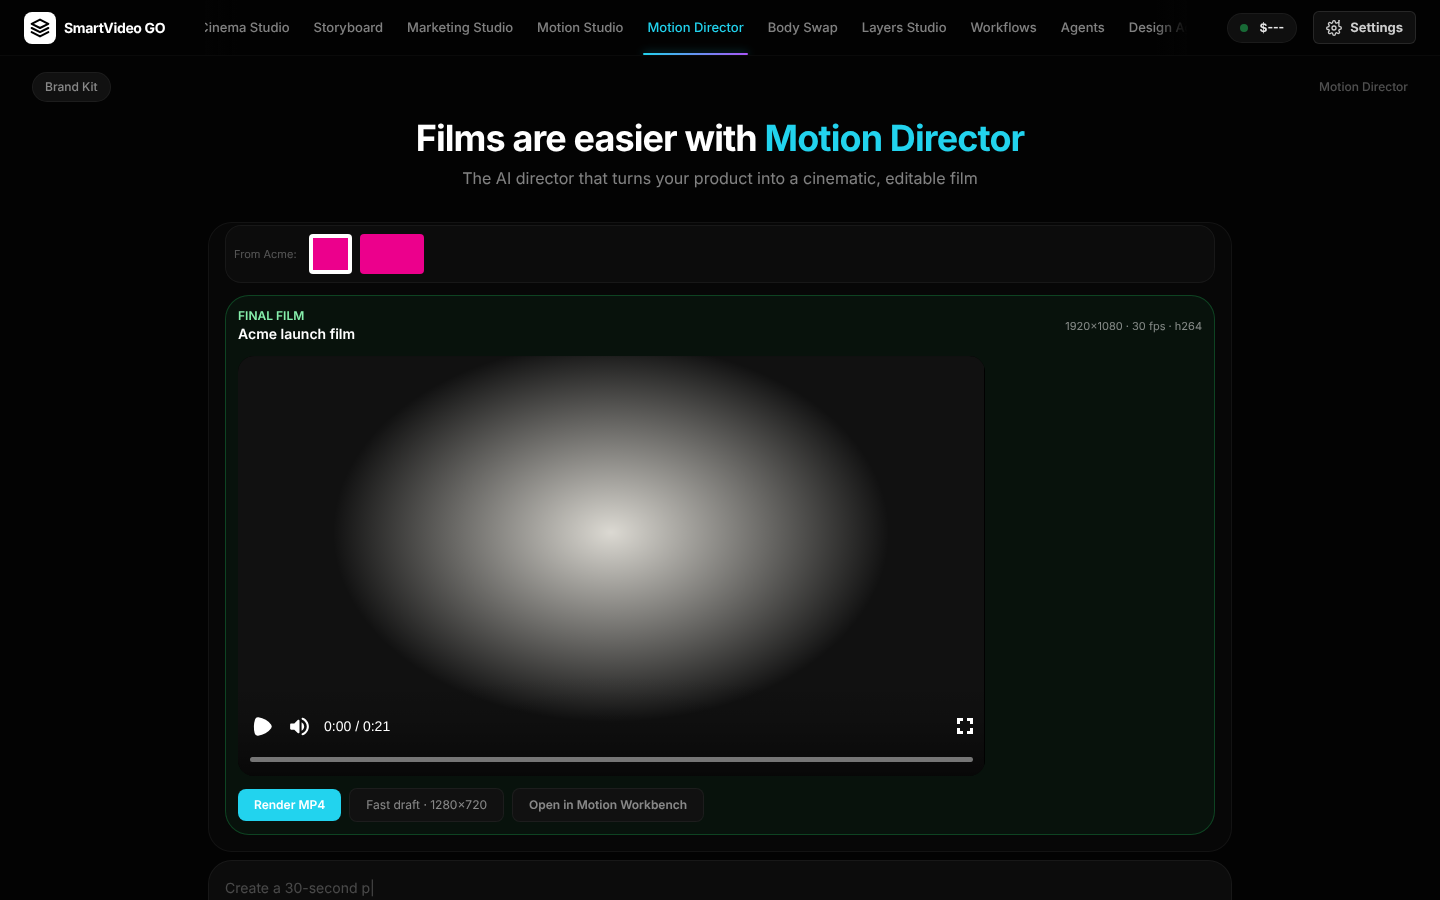
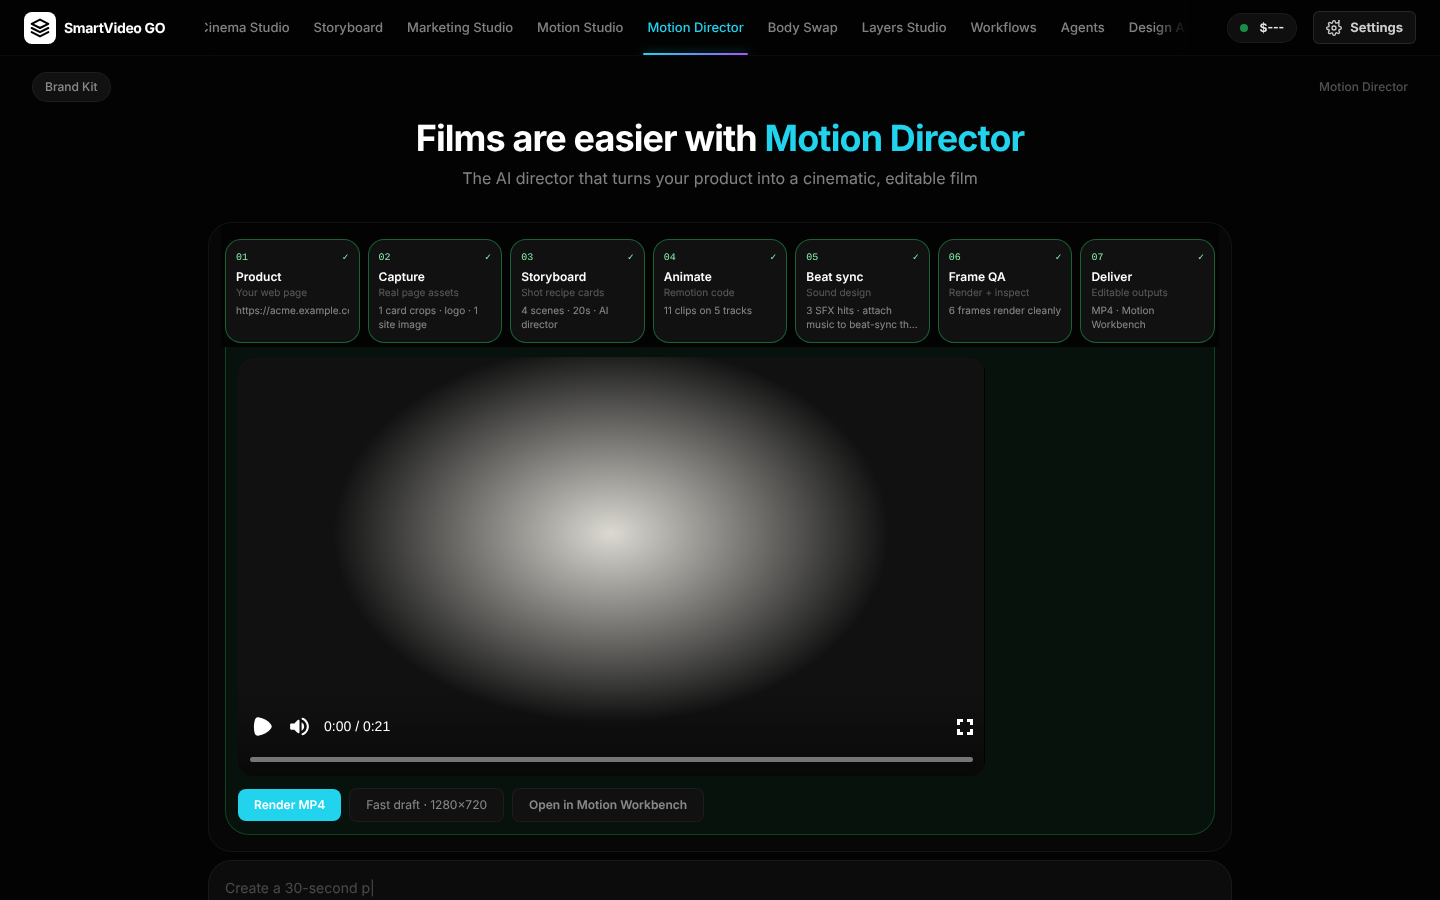
feat(motion-director): show the seven-step film workflow live in the chat
Product → Capture → Storyboard → Animate → Beat sync → Frame QA → Deliver,
as seven cards pinned at the top of the film conversation. Each shows its
state (waiting / working / done / skipped / problem) and what happened:
the URL, what the capture pulled (crops, logo, site images), the storyboard
(scenes, length, AI director or Ink Press), the Remotion build (clips and
tracks), the sound design (SFX hits, beat-synced music when attached), the
frame QA result, and the outputs (MP4, Motion Workbench).

The step state lives in useFilmDirector next to the conversation (reset
with it), defined once in lib/filmSteps.ts.

Claude-Session: https://claude.ai/code/session_019YUbZgdfbcj3m1xkvHF3L1

diff --git a/src/apps/motion-director/components/useFilmDirector.ts b/src/apps/motion-director/components/useFilmDirector.ts
@@ -15,6 +15,7 @@ import {
   type FilmRequest,
   type FilmTemplateChoice,
 } from '../lib/filmChat';
+import { initialSteps, markStep, type FilmStep, type FilmStepId, type FilmStepState } from '../lib/filmSteps';
 import {
   buildFilmProject,
   checkFilmFrames,
@@ -92,6 +93,9 @@ export function useFilmDirector(opts: {
   const [activity, setActivity] = useState<Array<{ label: string; status: ActivityStatus }>>([]);
   const [storyboard, setStoryboard] = useState<StoryboardResult | null>(null);
   const [film, setFilm] = useState<BuiltFilm | null>(null);
+  /** The seven workflow steps (Product → Deliver) with their live state. */
+  const [steps, setSteps] = useState<FilmStep[]>(initialSteps);
+  const mark = useCallback((id: FilmStepId, state: FilmStepState, detail?: string) => setSteps((prev) => markStep(prev, id, state, detail)), []);
   const pending = useRef<{ req: FilmRequest; template: FilmTemplateChoice } | null>(null);
   const offerReq = useRef<FilmRequest | null>(null);
   const optsRef = useRef(opts);
@@ -119,7 +123,10 @@ export function useFilmDirector(opts: {
       const my = gen.current;
       const live = () => gen.current === my;
       const glog: typeof log = (label, status) => {
-        if (live()) log(label, status);
+        if (!live()) return;
+        log(label, status);
+        if (/^Captured /.test(label)) mark('capture', 'done', label.replace(/^Captured [^·]*· ?/, ''));
+        else if (/^Could not capture/.test(label)) mark('capture', 'error', label);
       };
       const s = optsRef.current.settings();
       // A revision carries its own (revised) list; a new film adds the shots picked in Templates.
@@ -130,6 +137,14 @@ export function useFilmDirector(opts: {
       setStoryboard(null);
       setFilm(null);
       setActivity([]);
+      const images = s.media.filter((m) => m.kind === 'image').length;
+      let next = markStep(initialSteps(), 'product', 'done', req.siteUrl ?? 'From your message');
+      next = reuseCapture && storyboard?.capture
+        ? markStep(next, 'capture', 'done', 'Reusing the captured pages')
+        : req.siteUrl
+          ? markStep(next, 'capture', 'active', `Capturing ${req.siteUrl}`)
+          : markStep(next, 'capture', images ? 'done' : 'skipped', images ? `${images} attached screenshot${images === 1 ? '' : 's'}` : 'No URL — sample pages');
+      setSteps(markStep(next, 'storyboard', 'active'));
       if (!req.siteUrl && !s.media.some((m) => m.kind === 'image')) {
         say('assistant', 'No product URL or screenshots yet, so the product shots will use sample pages. Add your URL to the message (or attach screenshots) any time and I will re-capture.');
       }
@@ -142,6 +157,11 @@ export function useFilmDirector(opts: {
         if (!live()) return;
         setStoryboard(result);
         setStage('plan');
+        mark(
+          'storyboard',
+          'done',
+          `${result.plan.scenes.length} scene${result.plan.scenes.length === 1 ? '' : 's'} · ${secs(result.plan)}s · ${result.source === 'director' ? 'AI director' : 'Ink Press'}`,
+        );
         const lines = result.plan.scenes.map((sc, i) => `${i + 1}. ${sc.kind === 'title' ? 'Title card' : sc.recipeId.split('/')[1]} · ${sc.durationSec}s${sc.headline ? ` — “${sc.headline.replace(/\*/g, '')}”` : ''}`);
         say(
           'assistant',
@@ -150,10 +170,11 @@ export function useFilmDirector(opts: {
       } catch (error) {
         if (!live()) return;
         setStage('idle');
+        mark('storyboard', 'error', error instanceof Error ? error.message : 'failed');
         say('assistant', `I could not storyboard that: ${error instanceof Error ? error.message : 'unknown error'}`);
       }
     },
-    [log, say, storyboard?.capture],
+    [log, mark, say, storyboard?.capture],
   );
 
   /** Handle a chat message. Returns false when it is not a film request (the caller treats it as an edit). */
@@ -244,13 +265,21 @@ export function useFilmDirector(opts: {
     const my = gen.current;
     const live = () => gen.current === my;
     const glog: typeof log = (label, status) => {
-      if (live()) log(label, status);
+      if (!live()) return;
+      log(label, status);
+      if (/^Finding the beat/.test(label)) mark('beat', 'active', label);
+      else if (/^Frame QA/.test(label)) mark('qa', status === 'running' ? 'active' : status === 'error' ? 'error' : 'done', label.replace(/^Frame QA · /, ''));
     };
     const s = optsRef.current.settings();
     setStage('building');
+    mark('animate', 'active', 'Building the Remotion project');
     try {
       const project = await buildFilmProject(storyboard.plan, { aspectRatio: s.aspectRatio, capture: storyboard.capture, media: s.media, logo: s.brandKit?.logo ?? null }, glog);
       const qa = checkFilmStructure(project, { hasProductImages: Boolean(storyboard.capture) || s.media.some((m) => m.kind === 'image') });
+      const cuts = project.tracks.flatMap((t) => t.clips).filter((c) => c.cardId === 'audio-clip' && /sfxlib/.test(String(c.props?.file ?? ''))).length;
+      const music = s.media.find((m) => m.kind === 'audio');
+      mark('animate', 'done', `${project.tracks.reduce((n, t) => n + t.clips.length, 0)} clips on ${project.tracks.length} tracks`);
+      mark('beat', 'done', `${cuts} SFX hits${music ? ` · cuts on the beat of ${music.name}` : ' · attach music to beat-sync the cuts'}`);
       const frames = await checkFilmFrames(project, glog);
       if (!live()) return;
       qa.framesChecked = frames.checked;
@@ -259,6 +288,9 @@ export function useFilmDirector(opts: {
       const built = { project, qa };
       setFilm(built);
       setStage('film');
+      if (!frames.checked && !frames.failed.length) mark('qa', qa.ok ? 'done' : 'error', qa.ok ? 'Structure checked' : `${qa.issues.length} issue(s)`);
+      else if (!qa.ok) mark('qa', 'error', `${qa.issues.length} issue(s)`);
+      mark('deliver', 'done', 'MP4 · Motion Workbench');
       optsRef.current.onBuilt?.(built);
       say(
         'assistant',
@@ -272,10 +304,11 @@ export function useFilmDirector(opts: {
     } catch (error) {
       if (!live()) return;
       setStage('plan');
+      mark('animate', 'error', error instanceof Error ? error.message : 'failed');
       log(error instanceof Error ? error.message : 'Could not build the film', 'error');
       say('assistant', `Building the film failed: ${error instanceof Error ? error.message : 'unknown error'}`);
     }
-  }, [log, say, storyboard]);
+  }, [log, mark, say, storyboard]);
 
   const revise = useCallback(() => {
     say('assistant', 'What should change? Name shots to swap in (e.g. “use crash-zoom-punch instead”), a new length, or new copy.');
@@ -290,9 +323,10 @@ export function useFilmDirector(opts: {
     setFilm(null);
     setActivity([]);
     setMessages([]);
+    setSteps(initialSteps());
   }, []);
 
-  return { messages, stage, activity, storyboard, film, send, chooseTemplate, approve, revise, reset };
+  return { messages, stage, activity, steps, storyboard, film, send, chooseTemplate, approve, revise, reset };
 }
 
 export type FilmDirector = ReturnType<typeof useFilmDirector>;

diff --git a/src/apps/motion-director/components/FilmDirectorChat.tsx b/src/apps/motion-director/components/FilmDirectorChat.tsx
@@ -11,6 +11,7 @@ import { createDownloadUrl, exportMp4, formatEta, guardTabWhileRendering } from 
 import { isProductTextureShot } from '../lib/productShots';
 import { RecipePreview } from './RecipePreview';
 import type { FilmChatMessage, FilmDirector } from './useFilmDirector';
+import type { FilmStep, FilmStepState } from '../lib/filmSteps';
 
 /**
  * The film conversation as it appears in chat: messages, the Ink Press
@@ -153,6 +154,41 @@ export const FilmResultCard: React.FC<{ project: ProjectData; onOpenWorkbench?: 
   );
 };
 
+const STEP_COLORS: Record<FilmStepState, { border: string; num: string; label: string }> = {
+  todo: { border: 'var(--border-color)', num: semantic.textMuted, label: 'Waiting' },
+  active: { border: 'rgba(232,176,92,0.7)', num: '#e8b05c', label: 'Working…' },
+  done: { border: 'rgba(34,197,94,0.45)', num: '#86efac', label: 'Done' },
+  skipped: { border: 'var(--border-color)', num: semantic.textMuted, label: 'Skipped' },
+  error: { border: 'rgba(248,113,113,0.6)', num: '#fca5a5', label: 'Problem' },
+};
+
+/** The seven workflow steps — Product → Capture → Storyboard → Animate → Beat sync → Frame QA → Deliver — with live state. */
+export const FilmSteps: React.FC<{ steps: FilmStep[] }> = ({ steps }) => (
+  <ol className="grid grid-cols-2 sm:grid-cols-4 lg:grid-cols-7 gap-2" data-testid="film-steps" aria-label="Film workflow">
+    {steps.map((step, i) => {
+      const c = STEP_COLORS[step.state];
+      return (
+        <li
+          key={step.id}
+          data-step={step.id}
+          data-state={step.state}
+          className="rounded-xl p-2.5 min-w-0"
+          style={{ background: 'var(--bg-card)', border: `1px solid ${c.border}`, opacity: step.state === 'todo' || step.state === 'skipped' ? 0.65 : 1 }}
+          title={step.detail ?? c.label}
+        >
+          <div className="flex items-center justify-between text-[10px] font-mono" style={{ color: c.num }}>
+            <span>{String(i + 1).padStart(2, '0')}</span>
+            <span>{step.state === 'active' ? '●' : step.state === 'done' ? '✓' : step.state === 'error' ? '!' : ''}</span>
+          </div>
+          <div className="mt-1 text-xs font-semibold truncate">{step.title}</div>
+          <div className="text-[10px] truncate" style={{ color: semantic.textMuted }}>{step.sub}</div>
+          <div className="mt-1 text-[10px] leading-snug line-clamp-2" style={{ color: semantic.textSecondary }}>{step.detail ?? c.label}</div>
+        </li>
+      );
+    })}
+  </ol>
+);
+
 export interface FilmDirectorChatProps {
   director: FilmDirector;
   /** Messages to show before the director's own (e.g. the session history). */
@@ -168,11 +204,17 @@ export interface FilmDirectorChatProps {
 }
 
 export const FilmDirectorChat: React.FC<FilmDirectorChatProps> = ({ director, history = [], hideOwnMessages, onOpenWorkbench, openLabel, onPickShots, showFilm = true }) => {
-  const { messages, stage, activity, storyboard, film } = director;
+  const { messages, stage, activity, steps, storyboard, film } = director;
   const shown = hideOwnMessages ? history : [...history, ...messages];
   const plan = storyboard?.plan;
   return (
     <div className="flex flex-col gap-3" data-testid="film-chat">
+      {steps.some((s) => s.state !== 'todo') && (
+        // Pinned while the conversation scrolls, so the seven steps stay in view.
+        <div className="sticky -top-3 sm:-top-4 z-10 -mx-1 -mt-3 sm:-mt-4 px-1 pt-3 sm:pt-4 pb-1" style={{ background: 'var(--bg-app, #0b0b0d)' }}>
+          <FilmSteps steps={steps} />
+        </div>
+      )}
       {shown.map((m, i) => <FilmMessage key={`${m.ts}-${i}`} message={m} />)}
       {stage === 'offer' && (
         <div className="flex flex-wrap gap-2" data-testid="inkpress-offer">

diff --git a/src/apps/motion-director/lib/filmSteps.ts b/src/apps/motion-director/lib/filmSteps.ts
@@ -1,0 +1,32 @@
+/**
+ * The seven steps of a Motion Director film, as the chat shows them:
+ * Product → Capture → Storyboard → Animate → Beat sync → Frame QA → Deliver.
+ * Plain data so the hook, the chat UI and tests share one definition.
+ */
+export type FilmStepId = 'product' | 'capture' | 'storyboard' | 'animate' | 'beat' | 'qa' | 'deliver';
+export type FilmStepState = 'todo' | 'active' | 'done' | 'skipped' | 'error';
+
+export interface FilmStep {
+  id: FilmStepId;
+  title: string;
+  sub: string;
+  state: FilmStepState;
+  /** What happened in this step (e.g. "6 card crops · logo · 4 site images"). */
+  detail?: string;
+}
+
+export const FILM_STEPS: ReadonlyArray<Pick<FilmStep, 'id' | 'title' | 'sub'>> = [
+  { id: 'product', title: 'Product', sub: 'Your web page' },
+  { id: 'capture', title: 'Capture', sub: 'Real page assets' },
+  { id: 'storyboard', title: 'Storyboard', sub: 'Shot recipe cards' },
+  { id: 'animate', title: 'Animate', sub: 'Remotion code' },
+  { id: 'beat', title: 'Beat sync', sub: 'Sound design' },
+  { id: 'qa', title: 'Frame QA', sub: 'Render + inspect' },
+  { id: 'deliver', title: 'Deliver', sub: 'Editable outputs' },
+];
+
+export const initialSteps = (): FilmStep[] => FILM_STEPS.map((s) => ({ ...s, state: 'todo' }));
+
+/** Set one step's state (and detail), leaving the others as they are. */
+export const markStep = (steps: FilmStep[], id: FilmStepId, state: FilmStepState, detail?: string): FilmStep[] =>
+  steps.map((s) => (s.id === id ? { ...s, state, detail: detail ?? (state === s.state ? s.detail : undefined) } : s));

diff --git a/src/apps/motion-director/__tests__/useFilmDirector.test.tsx b/src/apps/motion-director/__tests__/useFilmDirector.test.tsx
@@ -82,4 +82,15 @@ describe('useFilmDirector', () => {
     await flush();
     expect(calls[2].single).toBe('CrashZoomReal');
   });
+
+  it('walks the seven workflow steps from Product to Storyboard', async () => {
+    const { result } = renderHook(() => useFilmDirector({ settings }));
+    expect(result.current.steps.map((st) => st.state)).toEqual(Array(7).fill('todo'));
+    act(() => { result.current.send('Make a launch film for acme.io with the Ink Press template', { force: true }); });
+    const state = () => Object.fromEntries(result.current.steps.map((st) => [st.id, st.state]));
+    expect(state()).toMatchObject({ product: 'done', capture: 'active', storyboard: 'active', animate: 'todo' });
+    await flush();
+    expect(state()).toMatchObject({ product: 'done', storyboard: 'done', animate: 'todo', deliver: 'todo' });
+    expect(result.current.steps.map((st) => st.title)).toEqual(['Product', 'Capture', 'Storyboard', 'Animate', 'Beat sync', 'Frame QA', 'Deliver']);
+  });
 });

diff --git a/e2e/motion-director-director.spec.ts b/e2e/motion-director-director.spec.ts
@@ -200,6 +200,12 @@ test.describe('Motion Studio director', () => {
     await expect(film).toContainText('1920×1080 · 30 fps');
     await expect(film.locator('.__remotion-player')).toBeVisible();
     await expect(chat).toContainText('Your film is ready');
+    // The seven workflow steps, Product → Deliver, all ran.
+    const steps = page.getByTestId('film-steps');
+    for (const id of ['product', 'capture', 'storyboard', 'animate', 'beat', 'qa', 'deliver']) {
+      await expect(steps.locator(`[data-step="${id}"]`)).toHaveAttribute('data-state', 'done');
+    }
+    await expect(steps.locator('[data-step="capture"]')).toContainText('1 card crops · logo · 1 site image');
     await expect(page.getByTestId('film-render')).toBeVisible();
     await captureEvidence(page, `${OUT}/chat-film-desktop.png`, { minBytes: 10 * 1024 });
 
